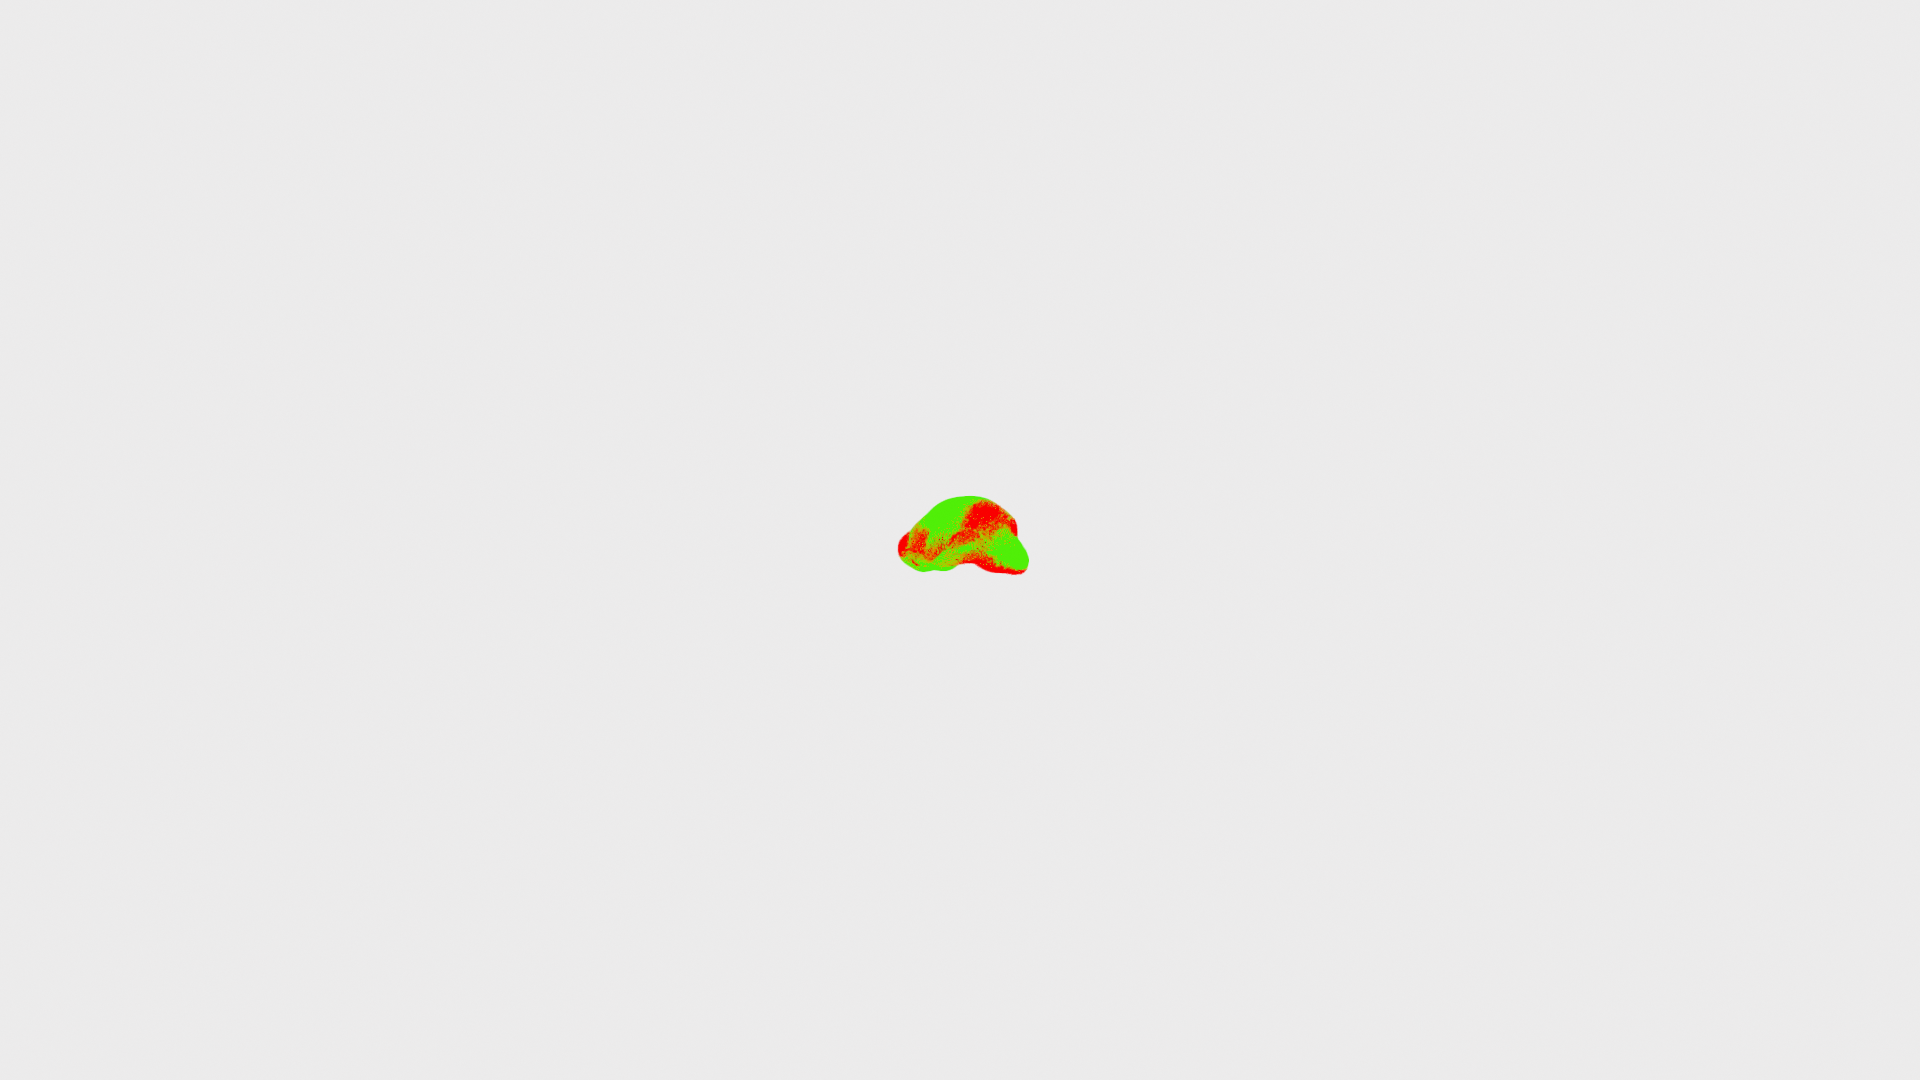
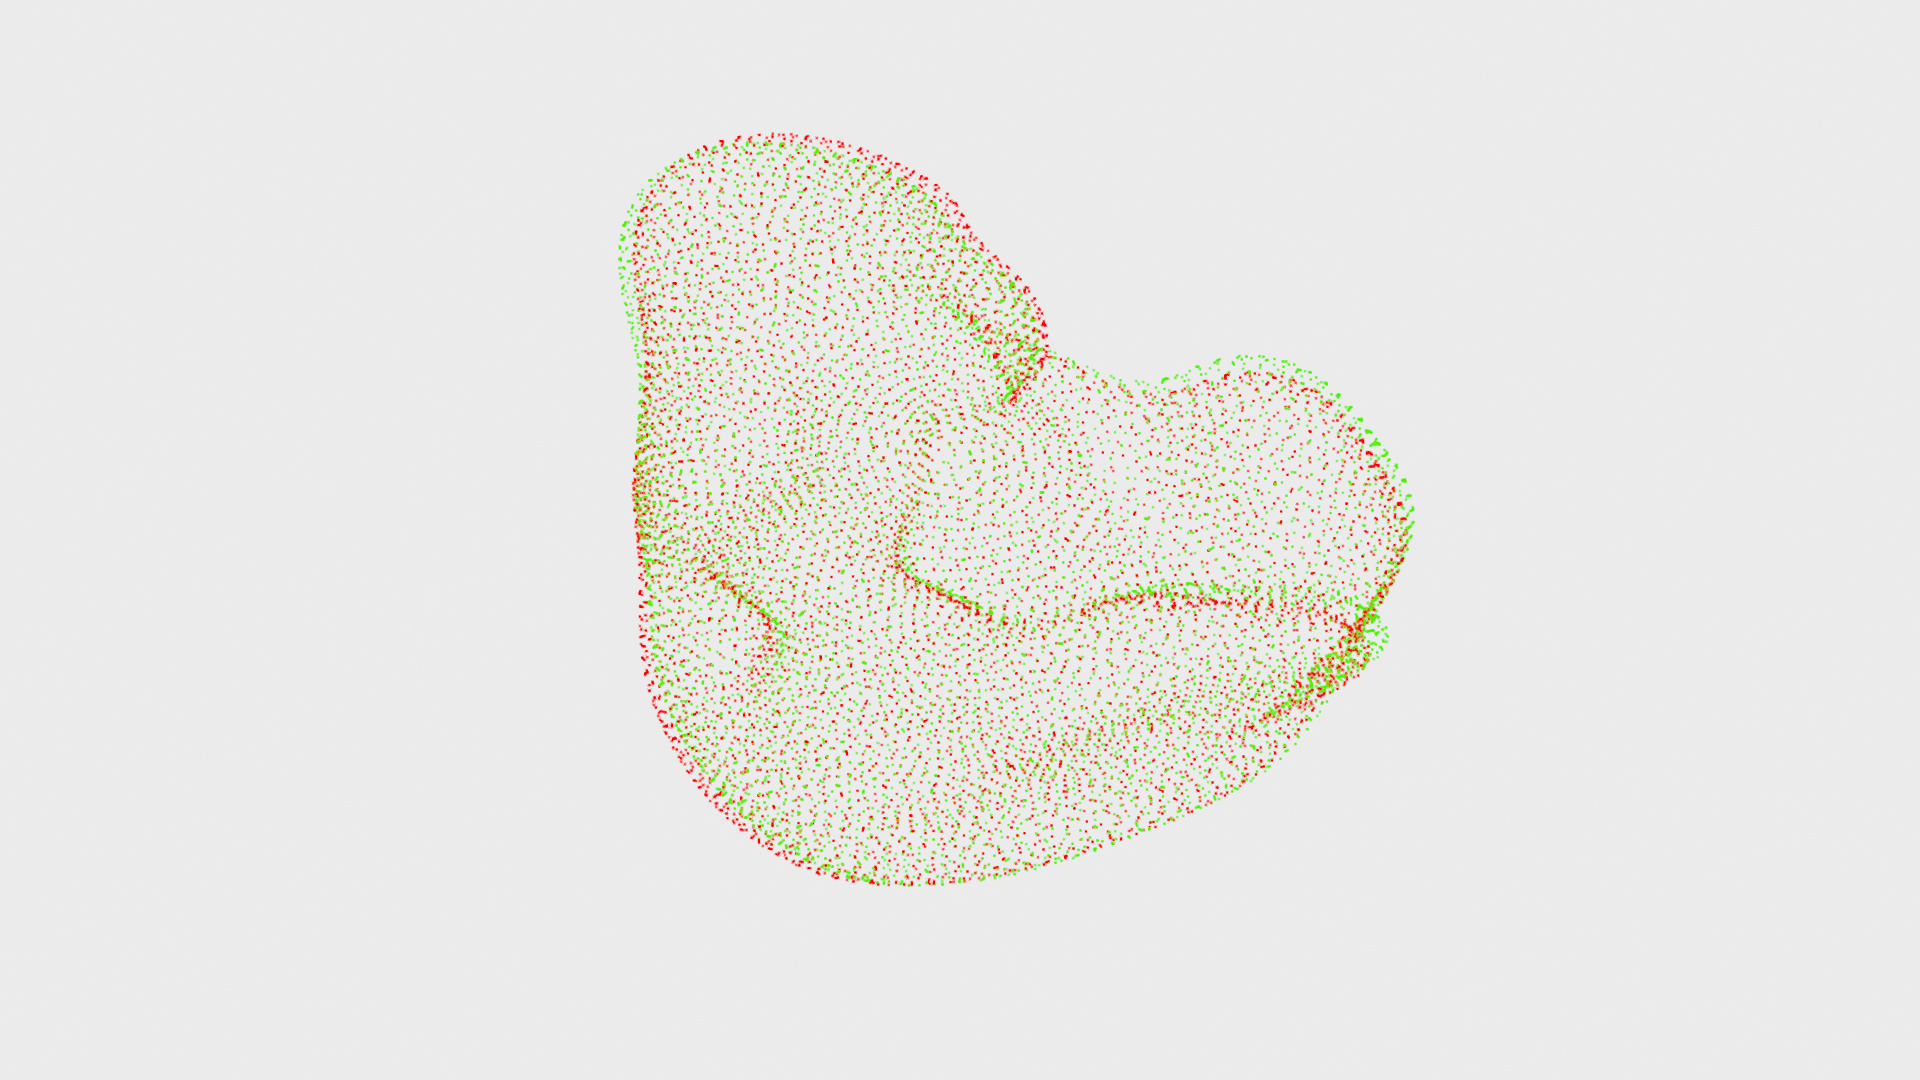
3D rotationfor better view

Changed region(s): [[0.3125, 0.1222, 0.75, 0.825]]

diff --git a/Pose_Evaluation/visualizer.py b/Pose_Evaluation/visualizer.py
@@ -96,11 +96,19 @@ from PIL import Image, ImageDraw, ImageFont
 import imageio
 from open3d.visualization import rendering
 
+from PIL import Image, ImageDraw, ImageFont
+import open3d as o3d
+import numpy as np
+import yaml
+import imageio
+from open3d.visualization import rendering
+
 class AlignmentVisualizer:
-    def __init__(self, gt_path, pred_path, ply_path):
+    def __init__(self, gt_path, pred_path, ply_path, rotation_angles=None):
         self.gt_path = gt_path
         self.pred_path = pred_path
         self.ply_path = ply_path
+        self.rotation_angles = rotation_angles  # (rx, ry, rz) in degrees
 
         self.gt_matrices = self._load_yaml(self.gt_path)
         self.res_matrices = self._load_yaml(self.pred_path)
@@ -125,6 +133,13 @@ class AlignmentVisualizer:
 
     def _get_transformed_pcds(self, frame_index):
         pcd = o3d.io.read_point_cloud(self.ply_path)
+
+        # Apply rotation from main (in degrees)
+        if self.rotation_angles is not None:
+            rx, ry, rz = [np.radians(a) for a in self.rotation_angles]
+            R = pcd.get_rotation_matrix_from_xyz((rx, ry, rz))
+            pcd.rotate(R, center=(0, 0, 0))
+
         points = np.asarray(pcd.points)
 
         T_gt = self.gt_matrices[frame_index]
@@ -142,49 +157,13 @@ class AlignmentVisualizer:
         pcd_pred.paint_uniform_color([0, 1, 0])
 
         return pcd_gt, pcd_pred, transformed_gt, transformed_pred
+    
 
-    def _add_legend(self, img, text_block=None):
-        draw = ImageDraw.Draw(img)
+    def show_interactive(self, frame_index=0):
+        pcd_gt, pcd_pred, *_ = self._get_transformed_pcds(frame_index)
+        o3d.visualization.draw_geometries([pcd_gt, pcd_pred])
 
-        try:
-            font = ImageFont.truetype("DejaVuSans-Bold.ttf", 30)
-        except:
-            font = ImageFont.load_default()
-
-        # Legend items
-        legend_items = [
-            ("Ground Truth", (255, 0, 0)),
-            ("Prediction", (0, 255, 0))
-        ]
-
-        # Calculate max width and total height
-        max_text_width = max([draw.textlength(label, font=font) for label, _ in legend_items])
-        swatch_size = 40
-        padding = 10
-        spacing = 8
-        total_height = len(legend_items) * (swatch_size + spacing)
-
-        # Position: bottom-left corner
-        img_width, img_height = img.size
-        x = padding
-        y = img_height - total_height - padding
-
-        for label, color in legend_items:
-            draw.rectangle([x, y, x + swatch_size, y + swatch_size], fill=color)
-            draw.text((x + swatch_size + 10, y), label, fill=(0, 0, 0), font=font)
-            y += swatch_size + spacing
-
-        # Draw additional annotation block above the legend (if any)
-        if text_block:
-            lines = text_block.strip().split("\n")[::-1]  # draw upwards
-            y = img_height - total_height - padding - len(lines)*(font.size + 5) - 10
-            for line in lines[::-1]:
-                draw.text((padding, y), line, font=font, fill=(0, 0, 0))
-                y += font.size + 5
-
-        return img
-
-    def save_alignment_image(self, output_path, frame_index=0, width=1920, height=1080, zoom_factor=1.0, annotate=False, errors=None):
+    def save_alignment_image(self, output_path, frame_index=0, width=1920, height=1080, zoom_factor=0.4):
         pcd_gt, pcd_pred, transformed_gt, transformed_pred = self._get_transformed_pcds(frame_index)
 
         renderer = rendering.OffscreenRenderer(width, height)
@@ -205,29 +184,27 @@ class AlignmentVisualizer:
         scene.camera.look_at(center, eye, [0, 0, 1])
 
         img = renderer.render_to_image()
-        np_img = np.asarray(img)
-        pil_img = Image.fromarray(np_img)
-
-        if annotate and errors:
-            text_block = f"Frame: {frame_index}\nRotation Error: {errors['Rotation Error (deg)'][frame_index]:.2f}°\n"
-            text_block += f"Translation Error: {errors['Translation Error (m)'][frame_index]:.4f}m\n"
-            text_block += f"ADD: {errors['ADD (m)'][frame_index]:.4f}m"
-            pil_img = self._add_legend(pil_img, text_block=text_block)
-
-        pil_img.save(output_path)
+        o3d.io.write_image(output_path, img)
         print(f"[✓] Saved image to {output_path}")
 
     def save_annotated_image(self, base_img_path, output_path, frame_index, errors):
         img = Image.open(base_img_path)
+        draw = ImageDraw.Draw(img)
+        try:
+            font = ImageFont.truetype("DejaVuSans-Bold.ttf", 30)
+        except:
+            font = ImageFont.load_default()
+
         text_block = f"Frame: {frame_index}\n"
         text_block += f"Rotation Error: {errors['Rotation Error (deg)'][frame_index]:.2f}°\n"
         text_block += f"Translation Error: {errors['Translation Error (m)'][frame_index]:.4f}m\n"
         text_block += f"ADD: {errors['ADD (m)'][frame_index]:.4f}m"
+
         img = self._add_legend(img, text_block=text_block)
         img.save(output_path)
         print(f"[✓] Saved annotated image to {output_path}")
 
-    def save_orbit_gif(self, frame_index=0, output_path="orbit.gif", n_frames=36, zoom_factor=1.5):
+    def save_orbit_gif(self, frame_index=0, output_path="orbit.gif", n_frames=36, zoom_factor=0.4):
         pcd_gt, pcd_pred, transformed_gt, transformed_pred = self._get_transformed_pcds(frame_index)
 
         renderer = rendering.OffscreenRenderer(640, 480)
@@ -243,16 +220,98 @@ class AlignmentVisualizer:
         center = np.mean(all_points, axis=0)
         radius = np.linalg.norm(np.max(all_points, axis=0) - np.min(all_points, axis=0)) * zoom_factor
 
-        frames = []
+        images = []
         for i in range(n_frames):
             theta = (2 * np.pi * i) / n_frames
             eye = center + radius * np.array([np.cos(theta), np.sin(theta), 0.5])
             scene.camera.look_at(center, eye, [0, 0, 1])
             img = renderer.render_to_image()
             np_img = np.asarray(img)
-            pil_img = Image.fromarray(np_img)
-            pil_img = self._add_legend(pil_img)
-            frames.append(np.array(pil_img))
+            img_with_legend = self._add_legend(Image.fromarray(np_img))
+            images.append(np.asarray(img_with_legend))
 
-        imageio.mimsave(output_path, frames, fps=12)
+        imageio.mimsave(output_path, images, fps=12)
         print(f"[✓] Saved orbiting camera GIF to {output_path}")
+
+    def _add_legend(self, img, text_block=None):
+        draw = ImageDraw.Draw(img)
+        try:
+            font = ImageFont.truetype("DejaVuSans-Bold.ttf", 30)
+        except:
+            font = ImageFont.load_default()
+
+        legend_items = [
+            ("Ground Truth", (255, 0, 0)),
+            ("Prediction", (0, 255, 0))
+        ]
+
+        swatch_size = 40
+        spacing = 8
+        padding = 10
+
+        img_width, img_height = img.size
+        y = img_height - padding - (swatch_size + spacing) * len(legend_items)
+
+        for label, color in legend_items:
+            draw.rectangle([padding, y, padding + swatch_size, y + swatch_size], fill=color)
+            draw.text((padding + swatch_size + 10, y), label, fill=(0, 0, 0), font=font)
+            y += swatch_size + spacing
+
+        if text_block:
+            lines = text_block.strip().split("\n")
+            y -= (swatch_size + spacing) * len(legend_items) + len(lines)*(font.size + 5) + 10
+            for line in lines:
+                draw.text((padding, y), line, font=font, fill=(0, 0, 0))
+                y += font.size + 5
+
+        return img
+    
+    def show_interactive(self, frame_index=0, azimuth=0, elevation=0, distance_factor=2.5):
+        import open3d as o3d
+        from math import cos, sin, radians
+        import numpy as np
+
+        # Get transformed point clouds
+        _, _, transformed_gt, transformed_pred = self._get_transformed_pcds(frame_index)
+
+        # Combine all points to find center and radius
+        all_points = np.vstack((transformed_gt, transformed_pred))
+        center = np.mean(all_points, axis=0)
+        radius = np.linalg.norm(np.max(all_points, axis=0) - np.min(all_points, axis=0))
+        distance = radius * distance_factor
+
+        # Create point cloud geometries
+        pcd_gt = o3d.geometry.PointCloud()
+        pcd_gt.points = o3d.utility.Vector3dVector(transformed_gt)
+        pcd_gt.paint_uniform_color([1, 0, 0])  # red
+
+        pcd_pred = o3d.geometry.PointCloud()
+        pcd_pred.points = o3d.utility.Vector3dVector(transformed_pred)
+        pcd_pred.paint_uniform_color([0, 1, 0])  # green
+
+        # Calculate eye position in spherical coords
+        az = radians(azimuth)
+        el = radians(elevation)
+        eye = center + distance * np.array([
+            cos(el) * cos(az),
+            cos(el) * sin(az),
+            sin(el)
+        ])
+
+        front = (center - eye)
+        front /= np.linalg.norm(front)
+
+        # Show in visualizer
+        vis = o3d.visualization.Visualizer()
+        vis.create_window()
+        vis.add_geometry(pcd_gt)
+        vis.add_geometry(pcd_pred)
+
+        ctr = vis.get_view_control()
+        ctr.set_lookat(center)
+        ctr.set_front(front)
+        ctr.set_up([0, 0, 1])
+        ctr.set_zoom(0.7)
+
+        vis.run()
+        vis.destroy_window()

diff --git a/Pose_Evaluation/main.py b/Pose_Evaluation/main.py
@@ -29,19 +29,22 @@ if __name__ == "__main__":
     visualizer_3d = AlignmentVisualizer(
         "reformatted/gt_reformatted.yml",
         "reformatted/res_reformatted.yml",
-        "data/obj_01.ply"
+        "data/obj_01.ply",
+        rotation_angles=(90, -90, 0)  # (rx, ry, rz) in degrees
     )
 
-    # Save zoomed view (even tighter zoom)
+    visualizer_3d.show_interactive(frame_index=frame_idx)
+
+    # Save zoomed view
     visualizer_3d.save_alignment_image(
         output_path=f"plots/frame_{frame_idx}_zoomed.png",
         frame_index=frame_idx,
-        zoom_factor=0.3  # <- tighter zoom
+        zoom_factor=0.3
     )
 
     # Save full view
     visualizer_3d.save_alignment_image(
-        output_path=f"plots/frame_{frame_idx}_zoomed.png",
+        output_path=f"plots/frame_{frame_idx}_full.png",
         frame_index=frame_idx,
         zoom_factor=0.4
     )
@@ -54,13 +57,14 @@ if __name__ == "__main__":
         errors=errors
     )
 
+    # Save orbit GIF
     visualizer_3d.save_orbit_gif(
-        frame_index=0,
+        frame_index=frame_idx,
         output_path="plots/orbit_animation.gif",
-        zoom_factor=0.5  # lower = zoom in more
+        zoom_factor=0.5
     )
 
-    # Plot errors
+    # Plot error metrics
     visualizer = TransformationVisualizer(
         errors["Rotation Error (deg)"],
         errors["Translation Error (m)"],
